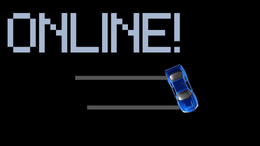
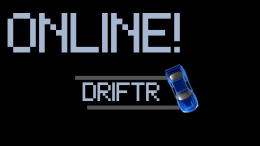
fixed some on the games page

Changed region(s): [[0.3077, 0.5479, 0.6154, 0.7123]]

diff --git a/Games.html b/Games.html
@@ -17,10 +17,12 @@ body {
   background-repeat: no-repeat;
   background-attachment: fixed;
   background-position: center center;
+  overflow-x: hidden;
 }
 .library-container {
   margin: 40px auto;
   padding: 0 24px;
+  padding-top: 20px;
   display: grid;
   grid-template-columns: repeat(auto-fit, minmax(360px, 1fr));
   gap: 32px;
@@ -75,15 +77,19 @@ body {
 pre {
   text-align: center;
   color: #fff;
-  margin: 20px auto 0 auto;
-  padding: 6px 0;
-  width: 98vw;
-  max-width: 600px;
-  background: rgba(30, 30, 30, 0.35);
-  border-radius: 12px;
-  border: 2px solid rgba(255, 255, 255, 0.25);
+  padding: 10px 0px;
+  padding-bottom: 40px;
+  border-bottom: 3px solid rgba(255, 255, 255, 0.1);
+  margin: 0px;
+  width: 100vw;
+  background: rgba(109, 109, 109, 0);
   backdrop-filter: blur(8px);
       -webkit-backdrop-filter: blur(8px);
+  font-size: 3em;
+  height: 50vh;
+  top: 0px;
+  position: relative;
+  height: fit-content;
 }
 
 @media (max-width: 900px) {
@@ -194,35 +200,47 @@ pre {
              <button id="fullscreen-btn" style="padding: 10px 20px; font-size: 1em;">Toggle Fullscreen</button>
         </div>
     </div>
-     <script type="module">
-    import { createWireframeWater } from './wireframeWater.js';
+   <script type="module">
+import { createWireframeWater } from './wireframeWater.js';
 
-    createWireframeWater({
+// 1⃣ Define waterController in outer scope
+let waterController = null;
 
-      container: document.getElementById('background')
-    });
-</script>
-<script>
-// Make white pixels transparent for the logo
-window.addEventListener('DOMContentLoaded', function() {
-  const canvas = document.getElementById('logo-canvas');
-  const ctx = canvas.getContext('2d');
-  const img = new Image();
-  img.crossOrigin = 'anonymous';
-  img.src = '/Games.png';
-  img.onload = function() {
-    ctx.drawImage(img, 0, 0, canvas.width, canvas.height);
-    const imageData = ctx.getImageData(0, 0, canvas.width, canvas.height);
-    const data = imageData.data;
-    for (let i = 0; i < data.length; i += 4) {
-      // If pixel is close to white, make it transparent
-      if (data[i] > 240 && data[i+1] > 240 && data[i+2] > 240) {
-        data[i+3] = 0;
-      }
-    }
-    ctx.putImageData(imageData, 0, 0);
-  };
+// 2⃣ Initialize background water
+window.addEventListener('DOMContentLoaded', () => {
+  const bg = document.getElementById('background');
+  waterController = createWireframeWater({ container: bg });
+
+  // 3⃣ Setup game cards click handlers
+  document.querySelectorAll('.library-container .game-card').forEach(card => {
+    const url = card.dataset.url;
+    if (!url) return;
+    card.addEventListener('click', () => openGame(url));
+  });
+
+  // 4⃣ Close popup
+  document.getElementById('close-btn').addEventListener('click', closePopup);
+  document.getElementById('iframe-popup').addEventListener('click', e => {
+    if (e.target === e.currentTarget) closePopup();
+  });
 });
+
+// 5⃣ Functions now can access waterController
+function openGame(url) {
+  if (waterController) waterController.pause(); // stop/hide background
+  const popup = document.getElementById('iframe-popup');
+  const iframe = document.getElementById('game-frame');
+  iframe.src = url;
+  popup.style.display = 'flex';
+}
+
+function closePopup() {
+  const popup = document.getElementById('iframe-popup');
+  const iframe = document.getElementById('game-frame');
+  iframe.src = '';
+  popup.style.display = 'none';
+  if (waterController) waterController.resume(); // show background again
+}
 </script>
     <script>
 function createGameCard({ title, url, thumbnail, desc, showPurpleRect }) {
@@ -301,6 +319,8 @@ function openGame(url, showPurpleRect) {
     wrapper.appendChild(control);
   }
 }
+
+
 
 function closePopup() {
   document.getElementById('iframe-popup').style.display = 'none';

diff --git a/wireframeWater.js b/wireframeWater.js
@@ -8,12 +8,12 @@ import { UnrealBloomPass } from "https://esm.sh/three@0.160.0/examples/jsm/postp
 export function createWireframeWater({
   width = window.innerWidth,
   height = window.innerHeight,
-  color = 0x007700,
+  color = 0x0005050,
   waveAmplitude = 0.5,
   waveSpeed = 1,
-  bloomStrength = 1,
-  bloomRadius = 0.2,
-  bloomThreshold = 0.1,
+  bloomStrength = 0,
+  bloomRadius = 0,
+  bloomThreshold = 0,
   cameraMove = 'static', // 'static' or 'orbit'
   centerShape = 'cube', // 'cube', 'sphere', 'cone', 'torus', 'torusKnot'
   container = document.body
@@ -38,12 +38,16 @@ export function createWireframeWater({
     bloomThreshold
   );
   composer.addPass(bloomPass);
-
-  const geometry = new THREE.PlaneGeometry(100, 100, 100, 100);
-  const material = new THREE.MeshBasicMaterial({ color, wireframe: true });
+  //ALL DOCUMENTS HAVE COPYRIGHT ALGOT.FUN 2025
+  const geometry = new THREE.PlaneGeometry(50, 50, 50, 50);
+  const material = new THREE.MeshPhongMaterial({ color, wireframe: false, roughness: 1, metalness: 0 });
   const mesh = new THREE.Mesh(geometry, material);
   mesh.rotation.x = -Math.PI / 1.3;
   scene.add(mesh);
+  scene.add (new THREE.AmbientLight(0xffffff, 0));
+  const directionalLight = new THREE.DirectionalLight(0xffffff, 0.8);
+  directionalLight.position.set(0, 10, 0);
+  scene.add(directionalLight);
 
   // Central shape selection
   let centerMesh = null;
@@ -103,6 +107,8 @@ export function createWireframeWater({
       positions.setZ(i, z);
     }
     positions.needsUpdate = true;
+    geometry.computeVertexNormals(); // <- recalc normals for proper shading
+
 
     if (cameraMove === 'orbit') {
       camera.position.x = Math.sin(time * 0.1) * 10;
